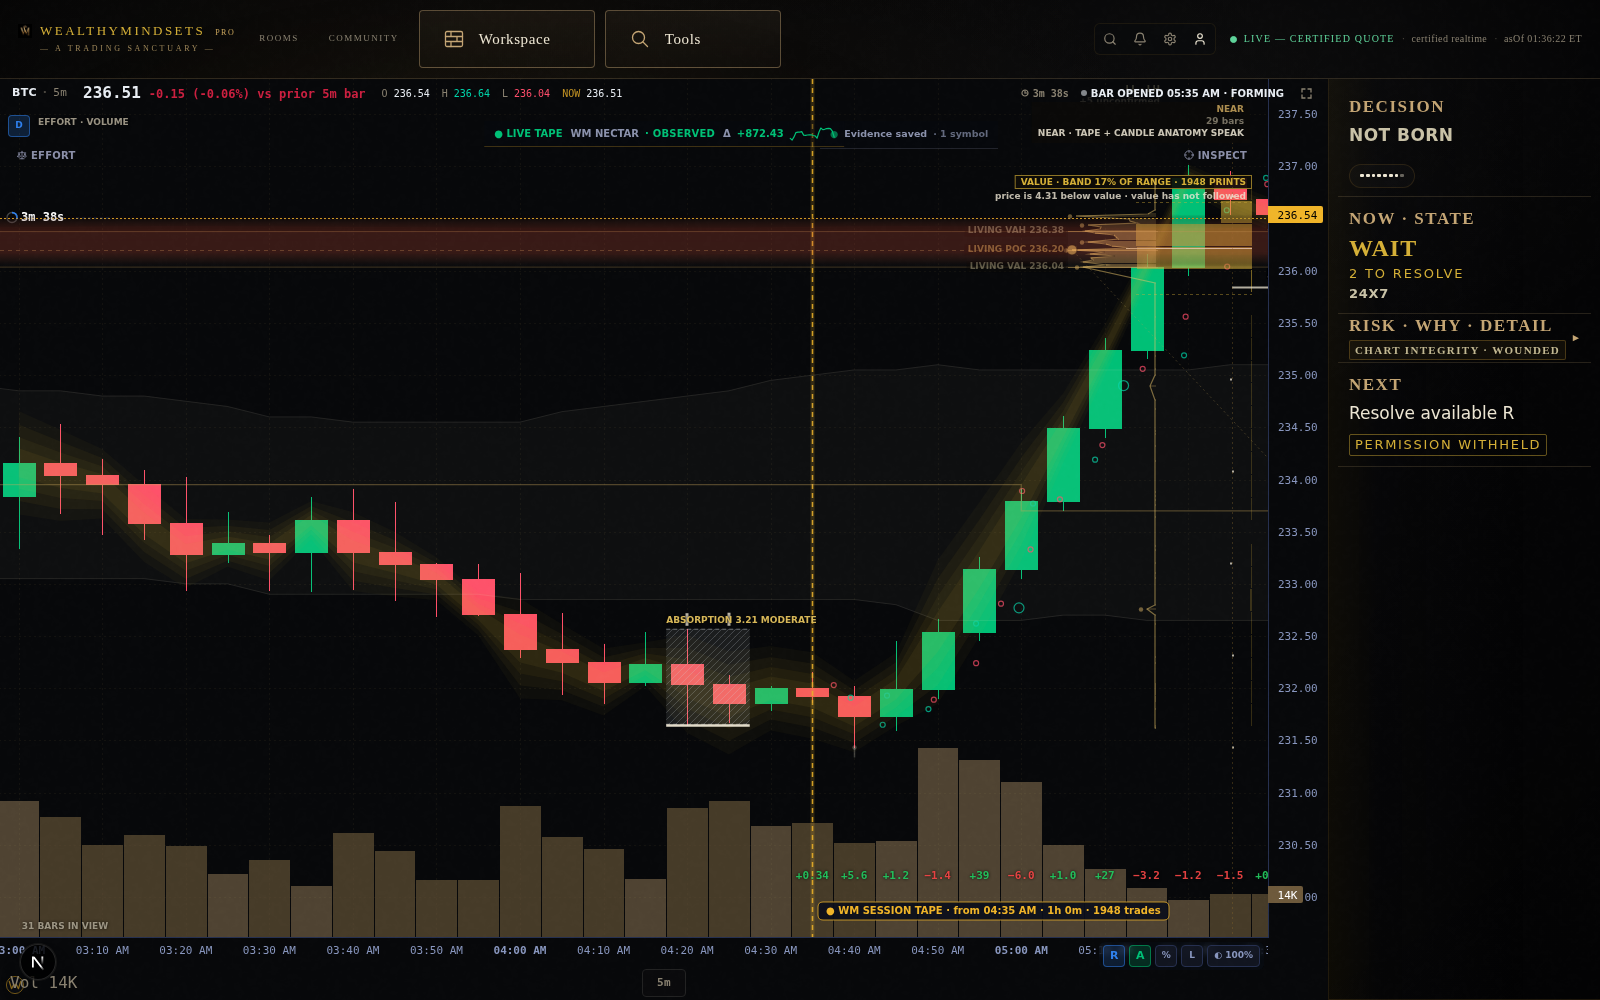
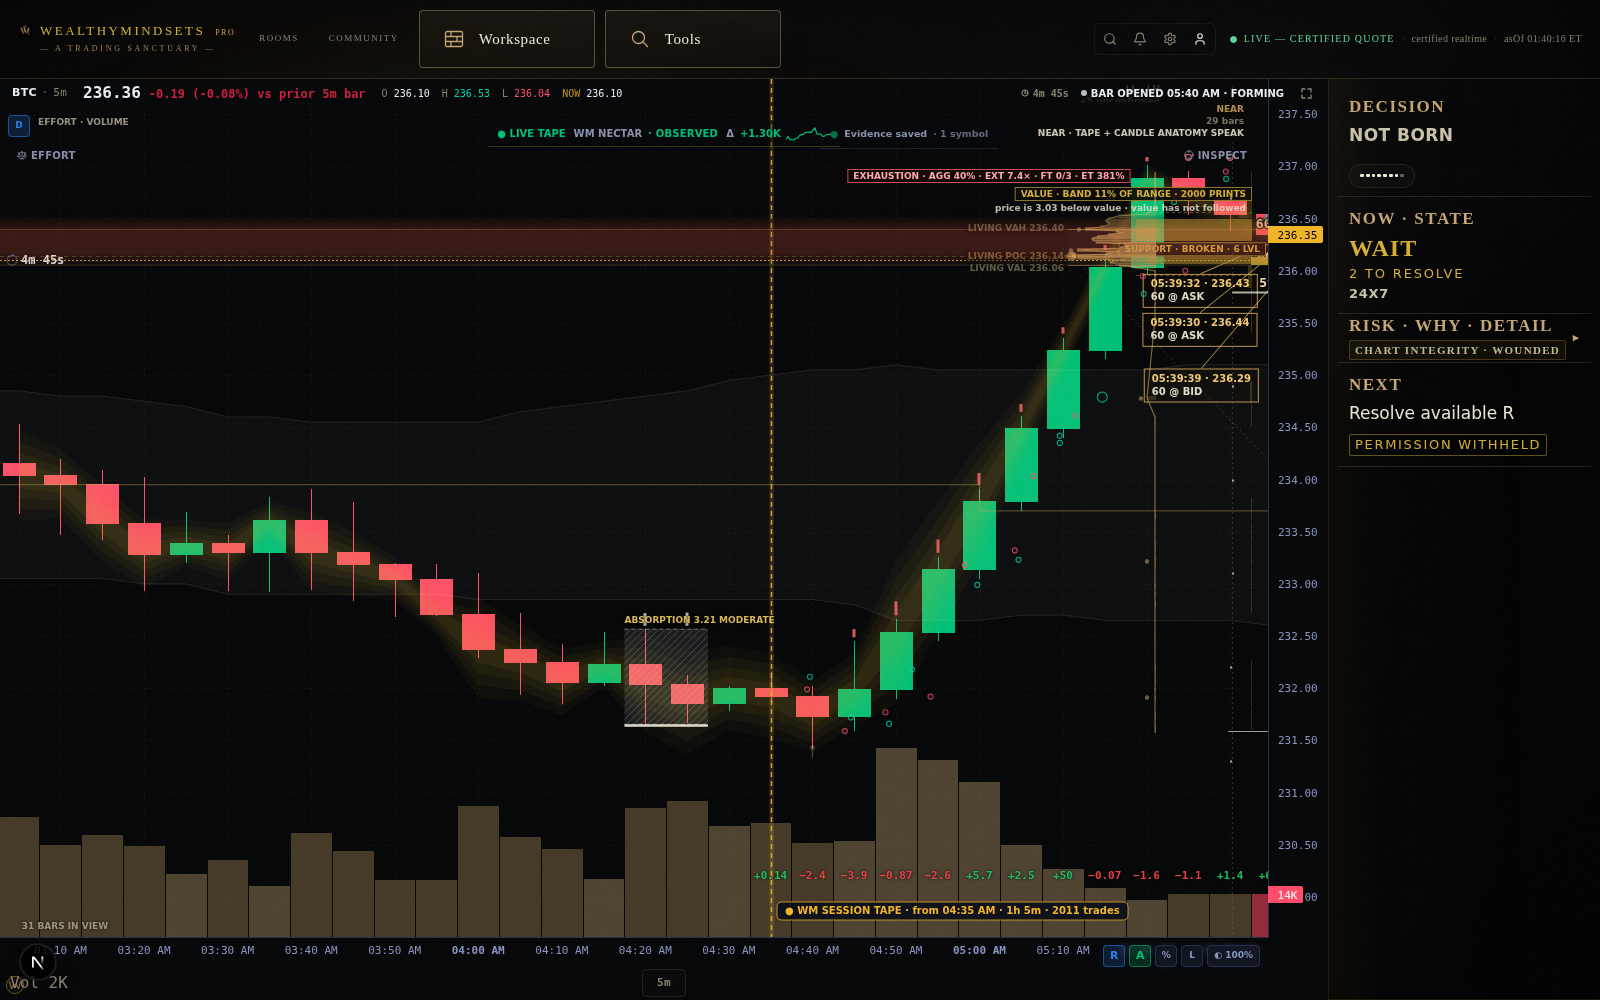
Garden 12 · NEAR: important-print tickets on leaders (canon F13 Micro)
At NEAR the three largest executions carry the plate's ticket on a leader:
exact time · price, then size @ ASK (buyer-initiated lifted the offer) or
@ BID (seller-initiated hit the bid), plus SIDE INFERRED when the venue did not
stamp the aggressor. Tickets never stack on one another. Everything on them is
the print itself — no sweep/rejection verdicts are minted here.
Receipt: ds.importantPrintTickets. Proof: garden12/SIDE_F13_near_delta.png.

Claude-Session: https://claude.ai/code/session_01Gntm2WzCaW5uQMS2aMojoZ

diff --git a/src/components/chart/MainChart.tsx b/src/components/chart/MainChart.tsx
@@ -6655,6 +6655,12 @@ export function MainChart({ symbol, timeframe, setTimeframe, footprintType, foot
         // the full bubble and inscription; the rest stay at their true time
         // and price as quiet rings (still hit-testable, still Inspectable).
         const BIG_TRADE_FULL = 5;
+        // CANON F13 Micro: at NEAR the three largest prints carry an
+        // "important print" ticket on a leader — time · price, size @ ASK/BID
+        // (buyer-initiated lifts the ask; seller-initiated hits the bid), and
+        // SIDE INFERRED when the venue did not stamp the aggressor.
+        const ticketDepth = (() => { try { const vr = chart.timeScale().getVisibleLogicalRange(); return semanticDensityForBarCount(vr ? Math.max(0, Math.floor(vr.to) - Math.ceil(vr.from) + 1) : null).depth; } catch { return "UNMEASURED" as const; } })();
+        const printTickets: { x: number; y: number; w: number; h: number }[] = [];
         let bubbleRank = 0;
         let bubblesQuieted = 0;
         for (const b of [...bubblesRef.current].sort((a, z) => z.r - a.r)) {
@@ -6779,9 +6785,32 @@ export function MainChart({ symbol, timeframe, setTimeframe, footprintType, foot
               ctx.fillText(`${buy ? "↑" : "↓"} ${formatBubblePrice(b.anchorPrice)}`, b.x, b.y + 15);
             }
           }
+          if (ticketDepth === "NEAR" && bubbleRank <= 3 && b.kind === "big-trade") {
+            const size = buy ? b.ask : b.bid;
+            const inferred = b.aggressorMethod === "TICK_RULE" || b.aggressorMethod === "QUOTE_TEST";
+            const lines = [
+              `${new Date(b.anchorTime * 1000).toISOString().slice(11, 19)} · ${formatBubblePrice(b.anchorPrice)}`,
+              `${formatBubbleVolume(size)} @ ${buy ? "ASK" : "BID"}${inferred ? " · SIDE INFERRED" : ""}`,
+            ];
+            ctx.font = "600 10px ui-sans-serif, system-ui, sans-serif";
+            const tw = Math.max(...lines.map(l => ctx.measureText(l).width)) + 16, th = 34;
+            let tx = b.x - b.r - 24 - tw, ty = b.y - b.r - 20 - th;
+            if (tx < 4) tx = b.x + b.r + 24;
+            if (ty < 96) ty = b.y + b.r + 20;
+            for (let k = 0; k < 4 && printTickets.some(r => tx < r.x + r.w && tx + tw > r.x && ty < r.y + r.h + 4 && ty + th + 4 > r.y); k++) ty += th + 6;
+            printTickets.push({ x: tx, y: ty, w: tw, h: th });
+            ctx.strokeStyle = "rgba(232,184,92,0.8)"; ctx.lineWidth = 1;
+            ctx.beginPath(); ctx.moveTo(tx + tw / 2, ty + (ty < b.y ? th : 0)); ctx.lineTo(b.x, b.y); ctx.stroke();
+            ctx.fillStyle = "rgba(11,10,8,0.94)"; ctx.fillRect(tx, ty, tw, th);
+            ctx.strokeRect(tx + 0.5, ty + 0.5, tw - 1, th - 1);
+            ctx.textAlign = "left"; ctx.textBaseline = "middle";
+            ctx.fillStyle = "rgba(240,200,110,1)"; ctx.fillText(lines[0], tx + 8, ty + 11);
+            ctx.fillStyle = "rgba(237,230,211,0.95)"; ctx.fillText(lines[1], tx + 8, ty + 24);
+          }
           ctx.restore();
         }
         canvas.dataset.bigTradeLabelsStaggered = String(bubbleLabelsStaggered);
+        canvas.dataset.importantPrintTickets = String(printTickets.length);
         canvas.dataset.bigTradeQuieted = String(bubblesQuieted);
       } else {
         // Left big-trades mode → clear bubbles + tooltip
